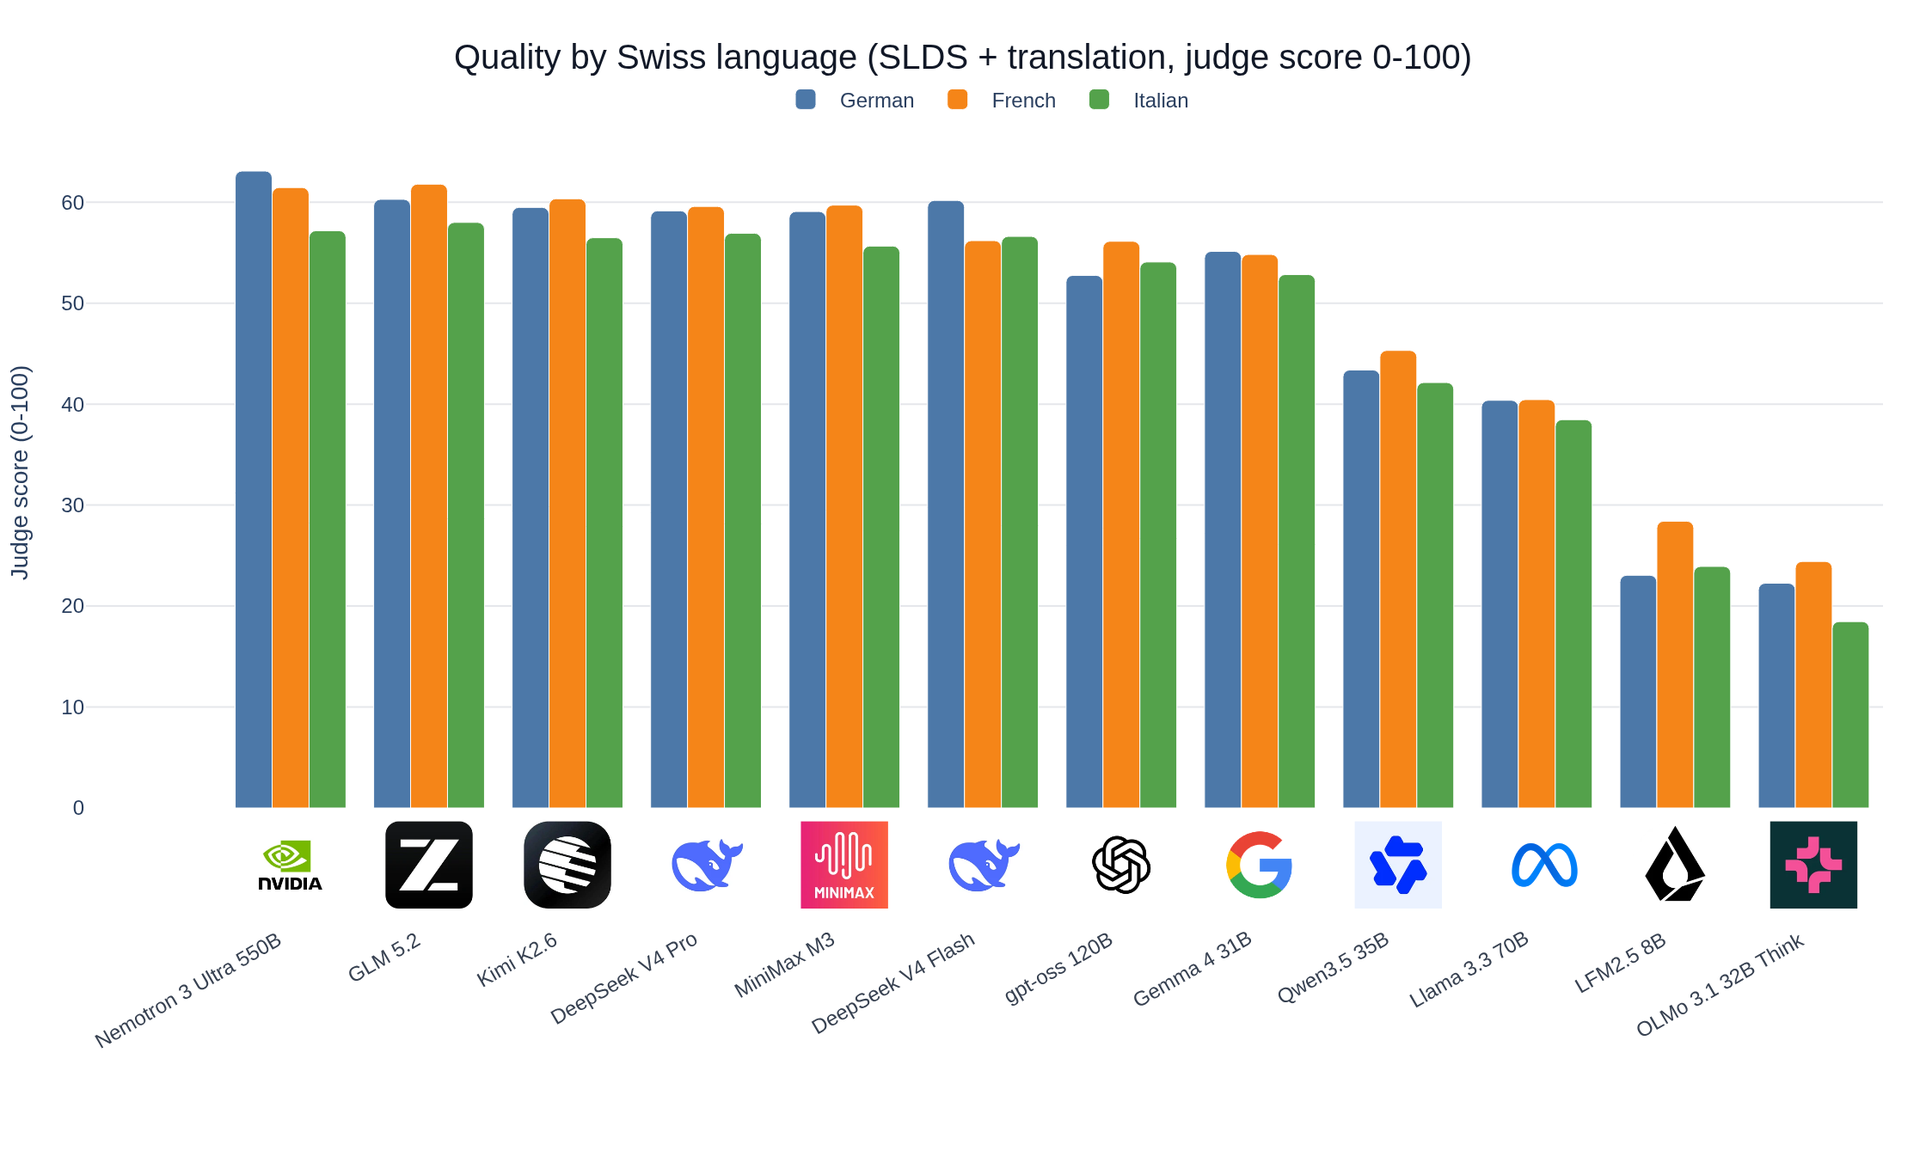
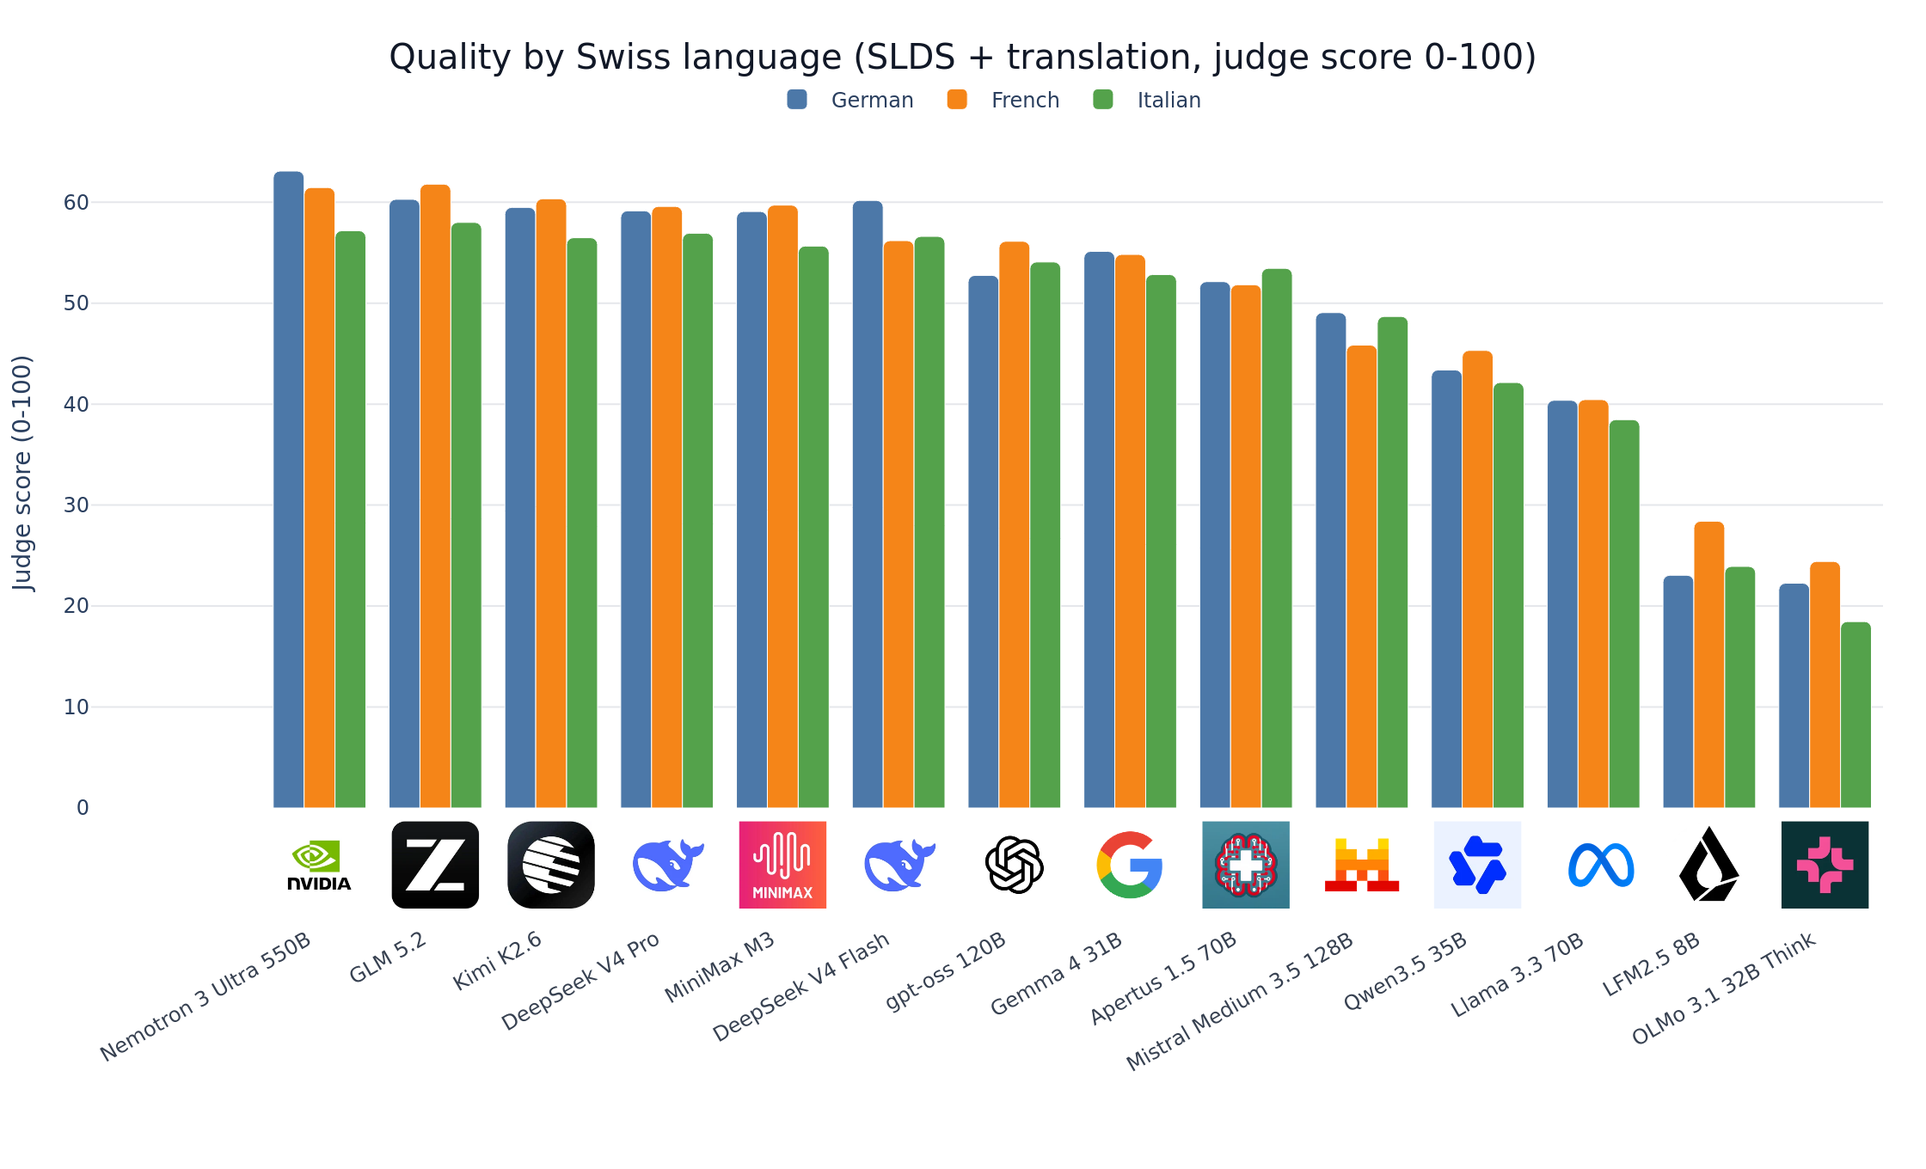
Refresh blog and figures with Apertus 1.5 and Mistral Medium 3.5.
Adds the two new models to the charts and post (15 open models, 14 comparable), and updates the analysis around Apertus's translation strength / MCQ collapse and Mistral's mid-pack profile.

diff --git a/blog/make_figures.py b/blog/make_figures.py
@@ -55,9 +55,11 @@ DISPLAY_NAMES = {
     "Llama-3.3-70B-Instruct": "Llama 3.3 70B",
     "LFM2.5-8B-A1B": "LFM2.5 8B",
     "MiniMax-M3": "MiniMax M3",
+    "Mistral-Medium-3.5-128B": "Mistral Medium 3.5 128B",
     "NVIDIA-Nemotron-3-Ultra-550B-A55B-NVFP4": "Nemotron 3 Ultra 550B",
     "Olmo-3.1-32B-Think": "OLMo 3.1 32B Think",
     "Qwen3.5-35B-A3B": "Qwen3.5 35B",
+    "Apertus-v1.5-70B": "Apertus 1.5 70B",
     "gemma-4-31B-it": "Gemma 4 31B",
     "gpt-oss-120b": "gpt-oss 120B",
 }
@@ -72,9 +74,11 @@ ORG_BY_MODEL = {
     "Llama 3.3 70B": "meta-llama",
     "LFM2.5 8B": "LiquidAI",
     "MiniMax M3": "MiniMaxAI",
+    "Mistral Medium 3.5 128B": "mistralai",
     "Nemotron 3 Ultra 550B": "nvidia",
     "OLMo 3.1 32B Think": "allenai",
     "Qwen3.5 35B": "Qwen",
+    "Apertus 1.5 70B": "swiss-ai",
     "Gemma 4 31B": "google",
     "gpt-oss 120B": "openai",
 }
@@ -90,7 +94,9 @@ BRAND_COLORS = {
     "Llama 3.3 70B": "#0467DF",
     "Gemma 4 31B": "#4285F4",
     "gpt-oss 120B": "#202124",
+    "Mistral Medium 3.5 128B": "#F97316",
     "Qwen3.5 35B": "#B03CE6",
+    "Apertus 1.5 70B": "#D52B1E",
     "OLMo 3.1 32B Think": "#F0529C",
     "LFM2.5 8B": "#F59E0B",
     "Hunyuan MT2 30B": "#0052D9",
@@ -212,7 +218,7 @@ def plot_overall(df: pd.DataFrame) -> None:
 
 
 def plot_translation(df: pd.DataFrame) -> None:
-    """SwiLTra-Bench translation average across all 12 models."""
+    """SwiLTra-Bench translation average across all evaluated models."""
     _ranked_bar(
         df, "translation", "Legal translation quality (SwiLTra-Bench, judge score 0-100)",
         "Translation average", "translation.png",
@@ -279,7 +285,7 @@ def plot_mcq_scaling(df: pd.DataFrame) -> None:
 
 
 def plot_translation_subsets(df: pd.DataFrame) -> None:
-    """Judge scores on the three SwiLTra subsets across all 12 models."""
+    """Judge scores on the three SwiLTra subsets across all evaluated models."""
     labels = {"sdst": "Decision summaries", "slt": "Laws", "sscprt": "Press releases"}
     tx = df.dropna(subset=TRANSLATION_COLUMNS).sort_values("translation", ascending=False)
     models = tx["model"].tolist()

diff --git a/blog/swiss-legal-evals-2026.md b/blog/swiss-legal-evals-2026.md
@@ -1,22 +1,22 @@
 # The state-of-the-art in open-source AI for Swiss legal tasks
 
-*Joel Niklaus · July 12 2026*
+*Joel Niklaus · July 28 2026*
 
-If you need an open-weight LLM for Swiss legal work in German, French, or Italian, there is no single best model in 2026. We evaluated 13 open models on three Swiss legal benchmarks, 55,861 scored samples each, and the top five finish within 2.1 points on our composite score.
+If you need an open-weight LLM for Swiss legal work in German, French, or Italian, there is no single best model in 2026. We evaluated 15 open models on three Swiss legal benchmarks, 55,861 scored samples each, and the top five finish within 2.1 points on our composite score.
 
 The model that wins overall is not the best translator. And the best translator is one of the weakest at multiple-choice law questions. So the right question is not "which open model is best" but "best at what."
 
 This post is for anyone deciding which open model to run on Swiss legal text, and for anyone who wants the current numbers instead of vibes. All results come from a single full run: the raw outputs live in the public [Hugging Face bucket](https://huggingface.co/buckets/joelniklaus/SwissLegalEvals), and the [`run.py` entry point](https://github.com/JoelNiklaus/SwissLegalEvals/blob/main/src/swiss_legal_evals/run.py) reproduces every number below.
 
-**TL;DR:** Choose GLM 5.2 for translation, Nemotron or a DeepSeek V4 variant for summarization and open-ended legal reasoning, and Gemma 4 31B for local deployment. Gemma scores 54.8 overall and leads the MCQ benchmark; it fits on local hardware while every model above it is a much larger MoE served in the cloud.
+**TL;DR:** Choose GLM 5.2 for translation, Nemotron or a DeepSeek V4 variant for summarization and open-ended legal reasoning, and Gemma 4 31B for local deployment. Gemma scores 54.8 overall and leads the MCQ benchmark; it fits on local hardware while every model above it is a much larger MoE served in the cloud. Apertus 1.5 70B is near the top on translation but collapses on MCQ; Mistral Medium 3.5 128B sits mid-pack.
 
-![Overall composite score across SLDS, SwiLTra-Bench, and LEXam for 12 comparable open models](figures/overall_ranking.png)
+![Overall composite score across SLDS, SwiLTra-Bench, and LEXam for 14 comparable open models](figures/overall_ranking.png)
 
 NVIDIA's Nemotron 3 Ultra 550B leads the composite at 59.0. But Kimi K2.6 (58.6), DeepSeek V4 Pro (58.3), DeepSeek V4 Flash (57.3), and MiniMax M3 (56.9) trail by only 0.4, 0.7, 1.7, and 2.1 points.
 
 The top five are effectively tied. A task-level bootstrap over the same result files (10,000 resamples within each benchmark family) gives 95% intervals with half-widths of roughly 3.2 to 3.6 points, wider than the 2.1-point gap between first and fifth. That uncertainty is also consistent with recent LLM-as-judge work: [JudgeSense](https://arxiv.org/abs/2604.23478) finds that equivalent prompt rephrasings can flip judge decisions, and [Li et al.](https://arxiv.org/abs/2506.22316) show that score-based judges shift under rubric and reference-answer perturbations. The composite averages four task groups (SLDS summarization, LEXam open questions, translation, and MCQ), each on a 0-100 scale.
 
-The gap only becomes decisive further down, with one exception. Gemma 4 31B reaches 54.8 overall, seventh place and within 0.7 of GLM 5.2 (55.5), which is striking for a 31B model sitting among the 500B-class frontier. Size alone does not explain the rest. Llama 3.3 70B (33.0) lands below Qwen3.5 35B (42.8), a mixture-of-experts that activates only 3B parameters per token. OLMo 3.1 32B Think is dense and the same size as Gemma, yet scores 26.0, under half as well. And LFM2.5 8B (24.8), the only genuinely small model here, sits at the bottom. None of these four are ready for Swiss legal work yet.
+The gap only becomes decisive further down, with one exception. Gemma 4 31B reaches 54.8 overall, seventh place and within 0.7 of GLM 5.2 (55.5), which is striking for a 31B model sitting among the 500B-class frontier. Size alone does not explain the rest. Mistral Medium 3.5 128B (48.1) is a dense mid-pack model: competent on translation and MCQ, weak on SLDS. Apertus 1.5 70B (40.2) and Llama 3.3 70B (33.0) both land below Qwen3.5 35B (42.8), a mixture-of-experts that activates only 3B parameters per token, despite posting strong translation scores. OLMo 3.1 32B Think is dense and the same size as Gemma, yet scores 26.0, under half as well. And LFM2.5 8B (24.8), the only genuinely small model here, sits at the bottom. None of these lower-tier models are ready for Swiss legal work yet.
 
 ## What we measure: three Swiss legal benchmarks in three languages
 
@@ -42,21 +42,21 @@ If your workload is translation, run GLM 5.2. If it is summarization or open-end
 
 ## A 3B-active specialist nearly matches the frontier in translation
 
-The models perform best in translation: ten of thirteen score at least 57 out of 100. GLM 5.2 tops it at 66.2, ahead of Kimi K2.6 (65.3) and DeepSeek V4 Pro (64.2).
+The models perform best in translation: twelve of fifteen score at least 57 out of 100. GLM 5.2 tops it at 66.2, ahead of Kimi K2.6 (65.3) and Apertus 1.5 70B (65.2). Apertus is the Swiss open model in this lineup, and on translation it sits with the frontier MoEs — third overall, and first on court-decision summaries at 71.7.
 
 
-![SwiLTra-Bench translation average for all 13 models](figures/translation.png)
+![SwiLTra-Bench translation average for all 15 models](figures/translation.png)
 
 
-The efficiency surprise is Hunyuan MT2 30B, a translation specialist with only 3B active parameters (we ran it on SwiLTra-Bench only). It lands sixth at 61.9, within 4.3 points of the best open translator, GLM 5.2 (66.2). The five models ahead of it activate far more per token, from MiniMax M3's 23B up to Nemotron 3 Ultra's 55B, so a model with 8x to 18x fewer active parameters is nearly matching the frontier on translation. The takeaway cuts two ways: a specialist does not win on raw quality, but no model on the board delivers more per active parameter. If you are compute-bound, Hunyuan MT2 is the translation model to watch. If you only want the best output, the big MoEs still win.
+The efficiency surprise is Hunyuan MT2 30B, a translation specialist with only 3B active parameters (we ran it on SwiLTra-Bench only). It lands seventh at 61.9, within 4.3 points of the best open translator, GLM 5.2 (66.2). The six models ahead of it activate far more per token, from MiniMax M3's 23B up to Nemotron 3 Ultra's 55B, so a model with 8x to 18x fewer active parameters is nearly matching the frontier on translation. The takeaway cuts two ways: a specialist does not win on raw quality, but no model on the board delivers more per active parameter. If you are compute-bound, Hunyuan MT2 is the translation model to watch. If you only want the best output, the big MoEs still win.
 
 ## Not all legal text is equally hard to translate
 
 SwiLTra-Bench splits into three document types, and they are not equally hard.
 
-![Translation judge scores on the three SwiLTra-Bench subsets for all 13 models](figures/translation_subsets.png)
+![Translation judge scores on the three SwiLTra-Bench subsets for all 15 models](figures/translation_subsets.png)
 
-For the strong models the order is consistent: court-decision summaries are easiest, statutory law sits in the middle, and press releases are hardest. GLM 5.2 scores 71.0 on decision summaries but 60.5 on press releases, and every model in the top eight ranks the subsets in that same order. DeepSeek V4 Pro is the one that pulls ahead on press releases (61.2, the only score above 61 on that subset).
+For the strong models the order is consistent: court-decision summaries are easiest, statutory law sits in the middle, and press releases are hardest. Apertus leads decision summaries at 71.7, GLM 5.2 scores 71.0 there but 60.5 on press releases, and every model in the top tier ranks the subsets in that same order. DeepSeek V4 Pro is the one that pulls ahead on press releases (61.2, the only score above 61 on that subset).
 
 The pattern breaks for the weaker models, and the breakage is revealing. Gemma 4 31B stays near the frontier on decision summaries (63.5) and press releases (59.2) but drops to 48.9 on statutory law, a 14.6-point gap between its strongest and weakest subsets. Qwen3.5 35B inverts the usual order entirely, with law its worst subset (30.6) and press releases its best (51.5). OLMo 3.1 32B all but fails press releases at 9.6. If your workload is one specific document type, these subset scores matter more than the translation average.
 
@@ -68,7 +68,7 @@ Every model degrades from 4 to 16 answer options, and the drop is steep.
 
 Kimi K2.6 falls from 67.9% at four options to 44.0% at sixteen. Nemotron falls from 63.1% to 41.7%.
 
-Model size does not protect against this. Gemma 4 31B posts the best MCQ average of the entire field (56.0), ahead of every 500B-class model. For these exam questions, a smaller dense model beats much larger MoEs.
+Model size does not protect against this. Gemma 4 31B posts the best MCQ average of the entire field (56.0), ahead of every 500B-class model. For these exam questions, a smaller dense model beats much larger MoEs. Apertus 1.5 70B is the other side of that coin: near-frontier on translation (65.2) and last on MCQ (14.0), the same collapse as Llama 3.3 70B (14.9). Strong Swiss-language generation does not imply exam-style selection.
 
 The `trad_score` in the chart treats "I don't know" as wrong. The benchmark also reports a calibration score (`idk_score`) that rewards abstaining and penalizes confident wrong answers, and it turns negative for every model at 16 options, from -4.3 for the best-calibrated DeepSeek V4 Pro down to -61.3 for LFM2.5 8B. With a wide option set, open models still guess wrong more often than they admit uncertainty.
 
@@ -76,33 +76,35 @@ The `trad_score` in the chart treats "I don't know" as wrong. The benchmark also
 
 Averaging every German, French, and Italian task a model produces (SLDS plus the three translation subsets, the benchmarks that cover all three languages) exposes a small but consistent gap.
 
-![Mean judge score by Swiss language across SLDS and translation for the 12 comparable models](figures/language_comparison.png)
+![Mean judge score by Swiss language across SLDS and translation for the 14 comparable models](figures/language_comparison.png)
 
-French comes out highest on average (50.7 across the 12 comparable models), German is close behind (49.9), and Italian is last (47.6). The gap is a little over three points, and Italian is the lowest of the three for 9 of the 12 models. German and French remain within a point of each other. The likely cause is data volume, since Italian is the smallest of the three languages in Swiss legal corpora and on the open web. LEXam is left out of this cut because it exists only in German and English, and including it would compare the languages on an unequal benchmark mix.
+French comes out highest on average (50.4 across the 14 comparable models), German is close behind (50.0), and Italian is last (48.1). The gap is a little over two points, and Italian is the lowest of the three for 9 of the 14 models. German and French remain within half a point of each other. The likely cause is data volume, since Italian is the smallest of the three languages in Swiss legal corpora and on the open web. LEXam is left out of this cut because it exists only in German and English, and including it would compare the languages on an unequal benchmark mix.
 
 ## Model sizes and the hardware to run them
 
 Two numbers decide the cost of serving a model. Total parameters set how much memory the weights occupy, and active parameters set how much compute each token costs. The open field here runs from 8.5B to 1.6T total parameters, and native precision matters as much as parameter count.
 
-| Model                 | Total | Active | Precision | Weights  | Runs on       |
-|-----------------------|------:|-------:|-----------|---------:|---------------|
-| DeepSeek V4 Pro       |  1.6T |    49B | FP4+FP8   | ~0.85 TB | 8x H200       |
-| Kimi K2.6             |    1T |    32B | INT4      |  ~0.5 TB | 4x H200       |
-| GLM 5.2               |  753B |    40B | BF16      |  ~1.5 TB | 11x H200      |
-| Llama 3.3 70B         |   70B |    70B | BF16      | ~140 GB  | 2x H100       |
-| Nemotron 3 Ultra 550B |  550B |    55B | NVFP4     |  ~275 GB | 4x H100       |
-| MiniMax M3            |  428B |    23B | BF16      | ~0.85 TB | 7x H200       |
-| DeepSeek V4 Flash     |  284B |    13B | FP4+FP8   |  ~150 GB | 2x H100       |
-| gpt-oss 120B          |  117B |   5.1B | MXFP4     |   ~60 GB | 1x H100       |
-| Qwen3.5 35B           |   36B |     3B | BF16      |   ~72 GB | 1x H100       |
-| Gemma 4 31B           |   33B |    33B | BF16      |   ~65 GB | 1x H100       |
-| OLMo 3.1 32B Think    |   32B |    32B | BF16      |   ~64 GB | 1x H100       |
-| Hunyuan MT2 30B       |   30B |     3B | BF16      |   ~60 GB | 1x H100       |
-| LFM2.5 8B             |  8.5B |     1B | BF16      |   ~17 GB | 1x 24 GB GPU  |
+| Model                      | Total | Active | Precision | Weights  | Runs on       |
+|----------------------------|------:|-------:|-----------|---------:|---------------|
+| DeepSeek V4 Pro            |  1.6T |    49B | FP4+FP8   | ~0.85 TB | 8x H200       |
+| Kimi K2.6                  |    1T |    32B | INT4      |  ~0.5 TB | 4x H200       |
+| GLM 5.2                    |  753B |    40B | BF16      |  ~1.5 TB | 11x H200      |
+| Nemotron 3 Ultra 550B      |  550B |    55B | NVFP4     |  ~275 GB | 4x H100       |
+| MiniMax M3                 |  428B |    23B | BF16      | ~0.85 TB | 7x H200       |
+| DeepSeek V4 Flash          |  284B |    13B | FP4+FP8   |  ~150 GB | 2x H100       |
+| Mistral Medium 3.5 128B    |  128B |   128B | FP8       |  ~128 GB | 2x H100       |
+| gpt-oss 120B               |  117B |   5.1B | MXFP4     |   ~60 GB | 1x H100       |
+| Llama 3.3 70B              |   70B |    70B | BF16      | ~140 GB  | 2x H100       |
+| Apertus 1.5 70B            |   70B |    70B | BF16      | ~140 GB  | 2x H100       |
+| Qwen3.5 35B                |   36B |     3B | BF16      |   ~72 GB | 1x H100       |
+| Gemma 4 31B                |   33B |    33B | BF16      |   ~65 GB | 1x H100       |
+| OLMo 3.1 32B Think         |   32B |    32B | BF16      |   ~64 GB | 1x H100       |
+| Hunyuan MT2 30B            |   30B |     3B | BF16      |   ~60 GB | 1x H100       |
+| LFM2.5 8B                  |  8.5B |     1B | BF16      |   ~17 GB | 1x 24 GB GPU  |
 
-Weights are total parameters times bytes per parameter (BF16 = 2, FP8 = 1, INT4/FP4 = 0.5), before the KV cache that long context adds; GPU counts assume 80 GB (H100) or 141 GB (H200) cards. We ran the local vLLM models on 4 H100s each for 64k-context throughput, well above these weight-only minimums.
+Weights are total parameters times bytes per parameter (BF16 = 2, FP8 = 1, INT4/FP4 = 0.5), before the KV cache that long context adds; GPU counts assume 80 GB (H100) or 141 GB (H200) cards. We ran local vLLM models above the weight-only minimum for 64k-context throughput (Apertus on 4 H100s, Mistral Medium on 8).
 
-Precision shifts the picture as much as size. Kimi K2.6 has more total parameters than GLM 5.2 (1T versus 753B), but it ships as INT4, so its weights (~0.5 TB) are a third of GLM's BF16 footprint (~1.5 TB). Seven of the thirteen models need a multi-GPU server; the other six fit on one accelerator, and five of those run on a single 80 GB H100. That is the case for Gemma 4 31B: near-frontier quality (54.8 overall) from one GPU, while every model ranked above it needs several.
+Precision shifts the picture as much as size. Kimi K2.6 has more total parameters than GLM 5.2 (1T versus 753B), but it ships as INT4, so its weights (~0.5 TB) are a third of GLM's BF16 footprint (~1.5 TB). Mistral Medium 3.5 is a dense 128B that ships in FP8 (~128 GB), so it fits where a BF16 twin would not. Nine of the fifteen models need a multi-GPU server; the other six fit on one accelerator, and five of those run on a single 80 GB H100. That is the case for Gemma 4 31B: near-frontier quality (54.8 overall) from one GPU, while every model ranked above it needs several.
 
 ## Known limitations
 
@@ -110,7 +112,7 @@ Treat the composite as indicative rather than a normalized benchmark: it mixes 0
 
 ## Conclusion
 
-The open frontier on Swiss legal tasks is close and specialized. Five models finish within 2.1 composite points, no single one wins every group, and the right pick depends on the job: GLM 5.2 for translation, Nemotron 3 Ultra or a DeepSeek V4 variant for summarization and open-ended reasoning, and Gemma 4 31B when you need near-frontier quality on a single GPU. Llama 3.3 70B reinforces the specialization point: it is eighth in translation but tenth overall because its SLDS and MCQ scores collapse. Absolute quality is not there yet. The strongest models score in the mid-60s on open legal exam questions and fall into the 40s on 16-option multiple choice, so a lawyer still has to check the output on real matters.
+The open frontier on Swiss legal tasks is close and specialized. Five models finish within 2.1 composite points, no single one wins every group, and the right pick depends on the job: GLM 5.2 for translation, Nemotron 3 Ultra or a DeepSeek V4 variant for summarization and open-ended reasoning, and Gemma 4 31B when you need near-frontier quality on a single GPU. Apertus 1.5 70B and Llama 3.3 70B reinforce the specialization point: both are strong translators (third and ninth) whose overall ranks fall because MCQ collapses. Mistral Medium 3.5 128B is the mid-pack dense option — usable, not competitive with the frontier MoEs. Absolute quality is not there yet. The strongest models score in the mid-60s on open legal exam questions and fall into the 40s on 16-option multiple choice, so a lawyer still has to check the output on real matters.
 
 ## Reproduce this
 
